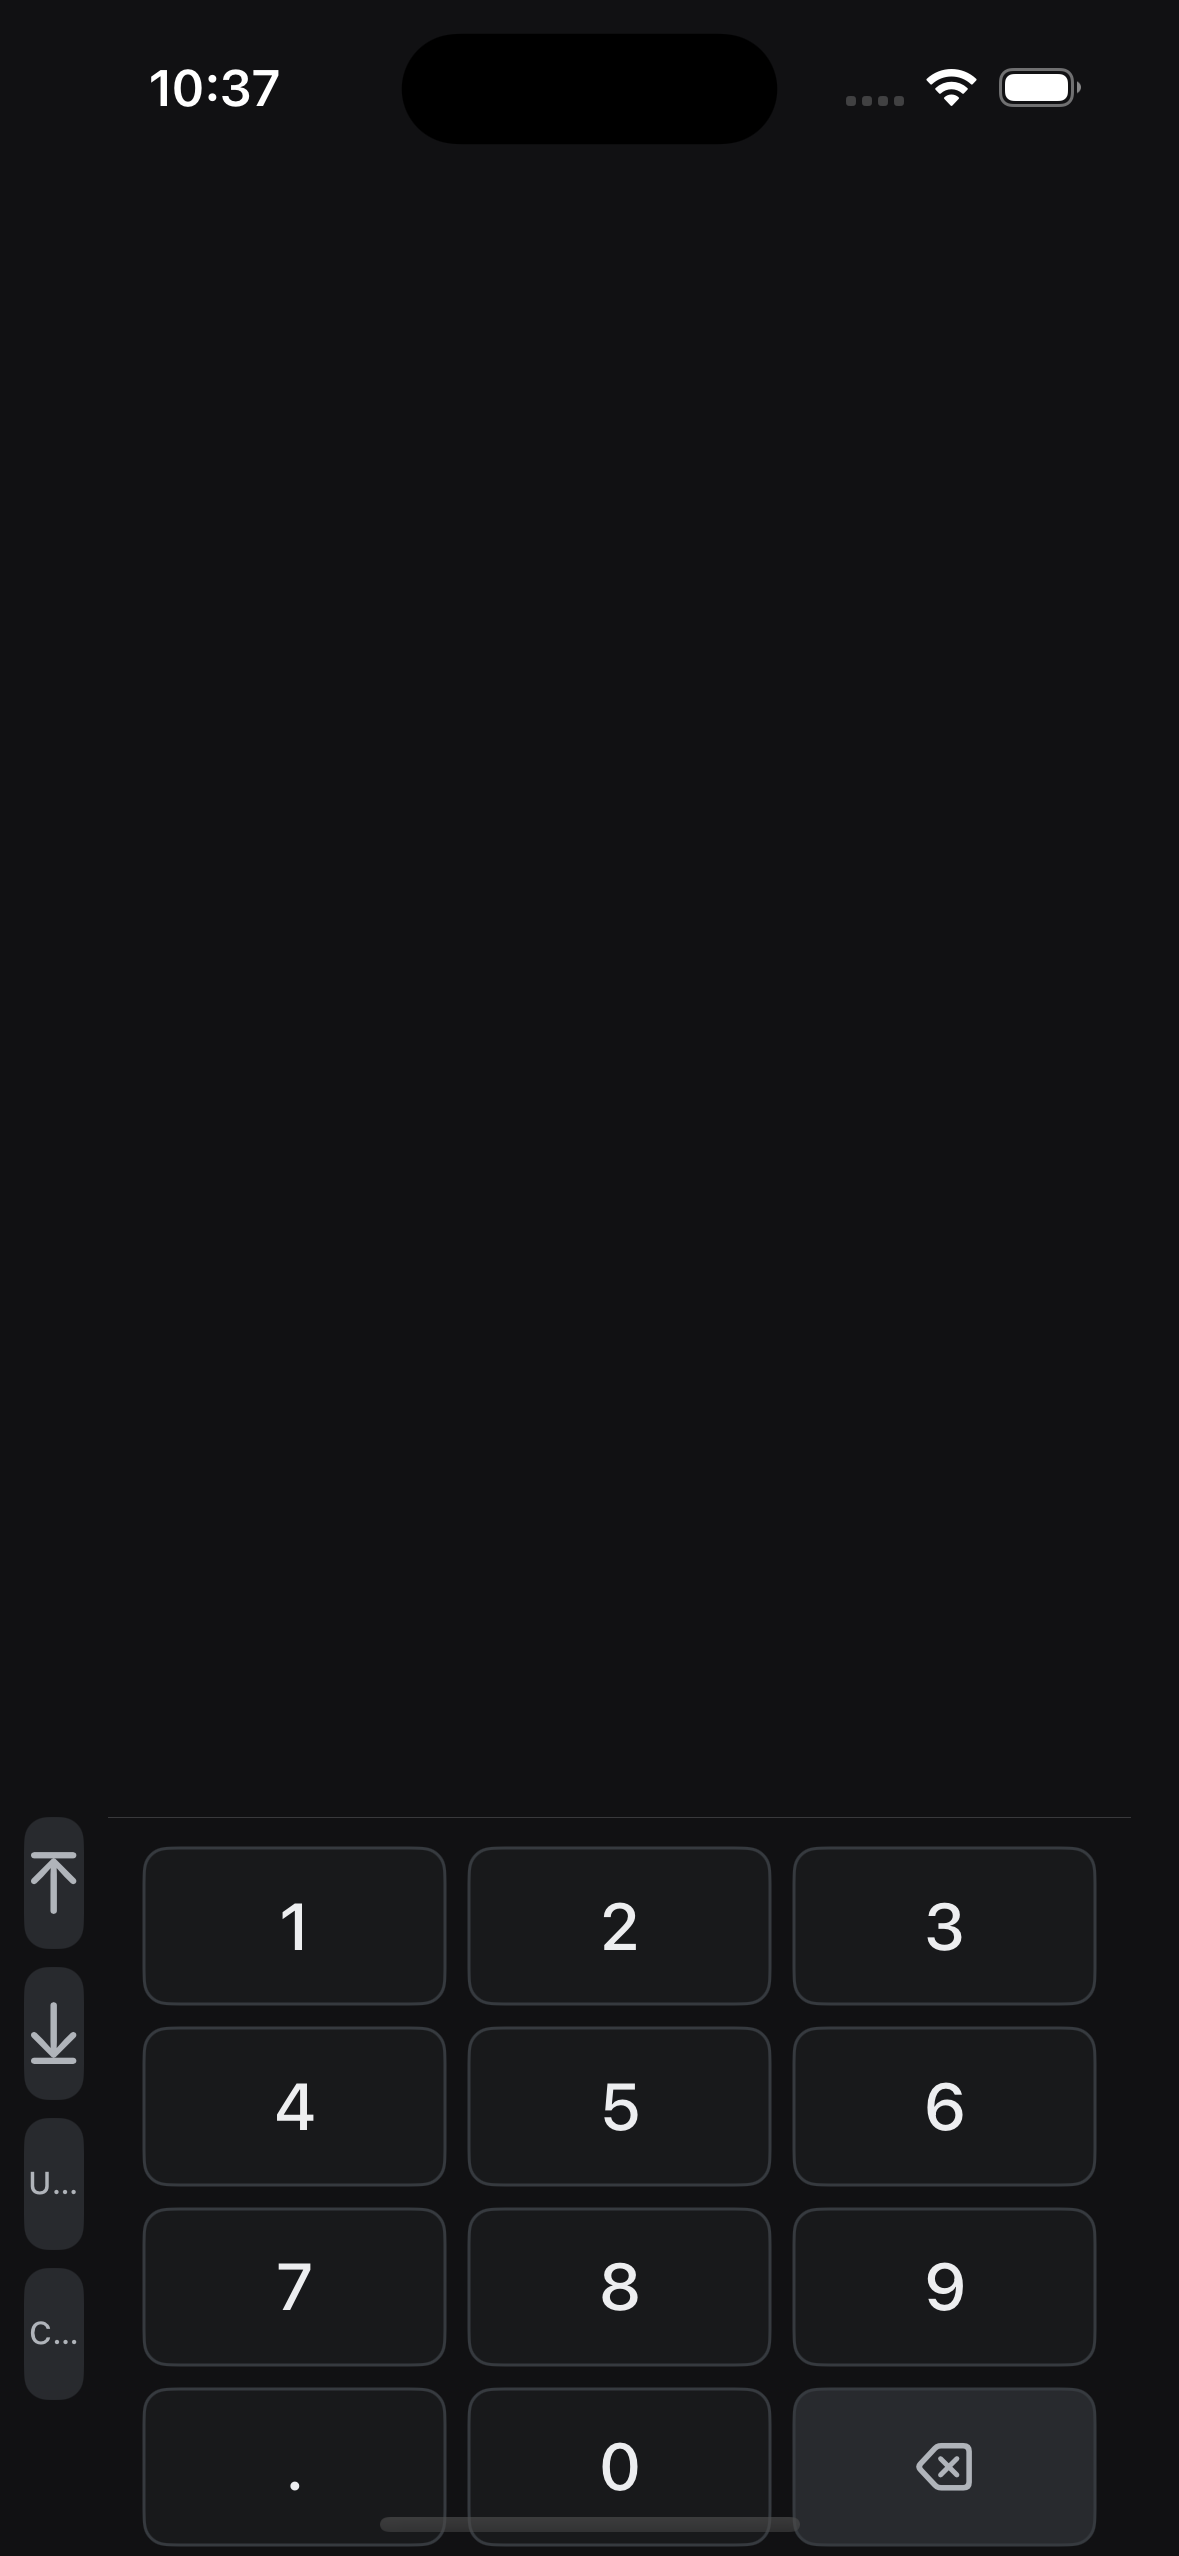
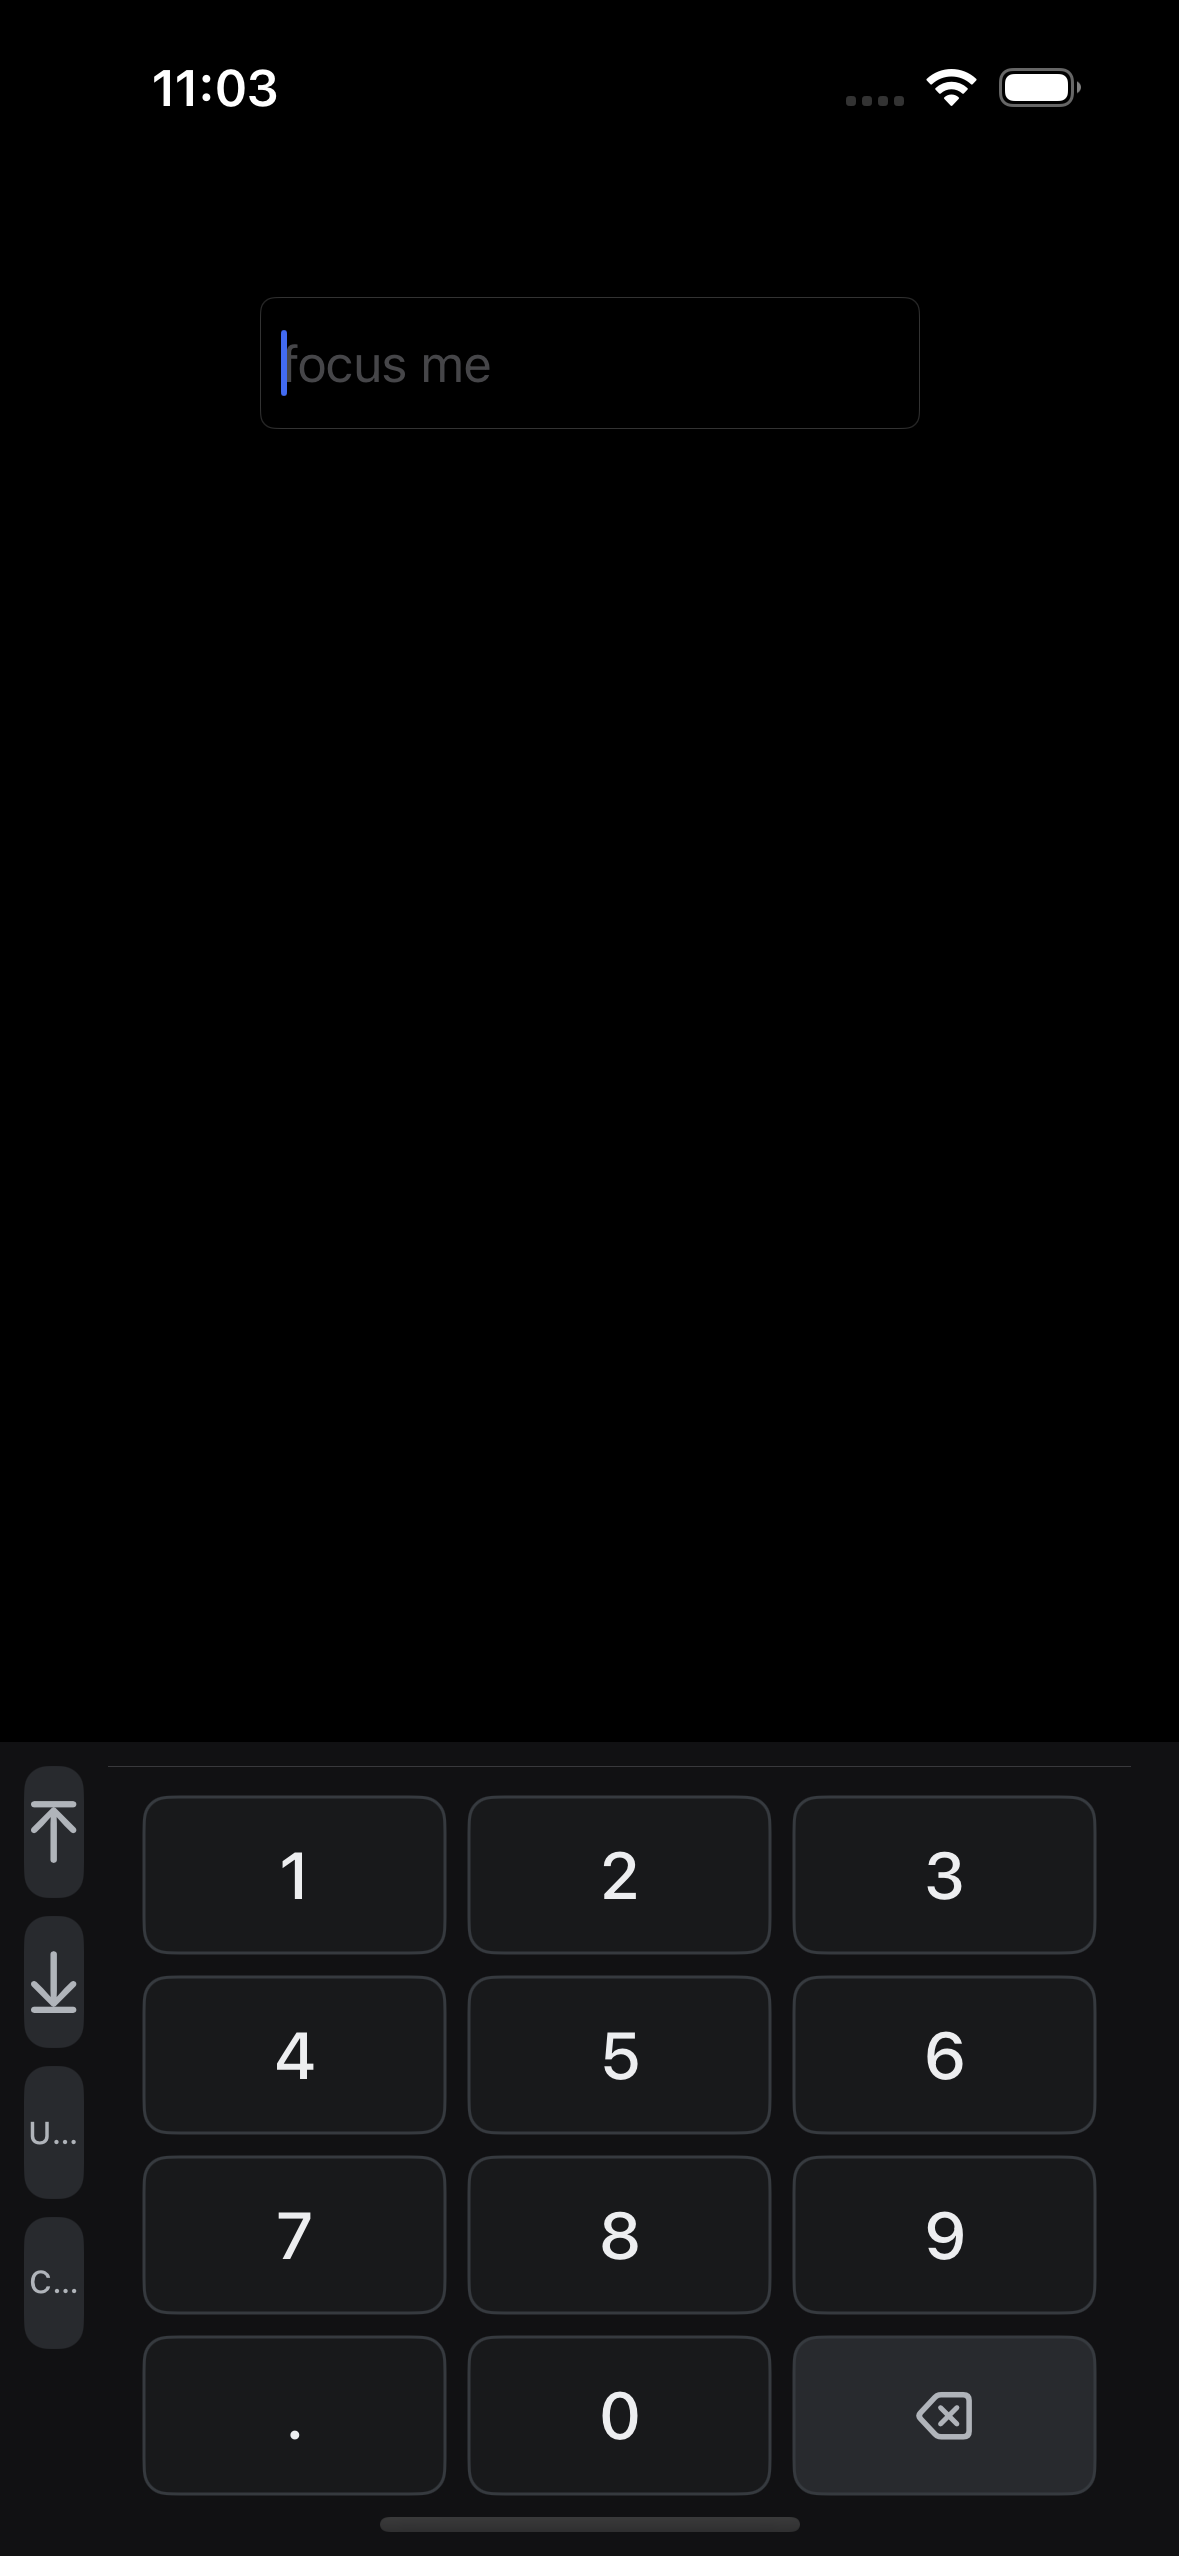
docs(design): 017 keyboard shots — real UITextField.inputView path + iPad dim fix (MY-1349)
Address AI Reviewer P0 + P2 on PR #360:

P0 fix — real inputView presentation path:
KBHost previously mounted WorkoutNumericKeyboardContentView directly inside
a substitute `VStack + Spacer + .frame(...)`. AI Reviewer flagged this is not
the production `textField.inputView` code path used in Stage 3 wiring
(SelectAllTextField / SetRow). Rewrote KBHostApp.swift to construct the
production `WorkoutNumericKeyboard` UIView and attach it as
`textField.inputView`, then call `becomeFirstResponder()` from
viewDidAppear — standard UIKit input-view presentation (~250ms slide-up
animation). The keyboard UIView's own heightAnchor (240 iPhone / 260 iPad)
drives its size and UIKit anchors it at the bottom safe-area edge with
full container width — the exact same code path Stage 3 will use.

Extra proof of authenticity: on iPad shots, the iOS system inputAssistant
bar (undo/redo/paste) appears above the keyboard — this bar is only rendered
for real inputView presentation, never for direct-mounted views.

Production files remain untouched (WorkoutNumericKeyboard.swift,
NumericKeypad.swift, ExerciseDefaults.swift) — xcodegen source-includes
them by absolute path so KBHost compiles the same source.

P2 fix — iPad dimensions:
Verified via `sips -g pixelWidth -g pixelHeight`: iPad Pro 11" M4 sim
returns 1668×2420, not 1668×2388 as previously recorded. Corrected all
four iPad rows in the 截图清单 table and updated captions.

Re-captured full 8-image matrix (iPhone 16 + iPad Pro 11", light + dark,
[…]

diff --git a/design/keyboard-current-shots/diagnosis.md b/design/keyboard-current-shots/diagnosis.md
@@ -7,9 +7,12 @@
 
 ---
 
-## 截图生成方法（可复现，真机 iOS Simulator）
+## 截图生成方法（可复现，真机 iOS Simulator + 生产 UITextField.inputView 路径）
 
-> **说明**：前一轮曾用 macOS `ImageRenderer` 光栅化"结构等价的复刻 view"作为替代，被 TL / AI Reviewer 判为 P0 blocker —— macOS 复刻会**掩盖真实设备布局回归**（见 N9）。本轮重写用真 iOS Simulator。
+> **前两轮 P0 修复历史**：
+> - **v1**: 用 macOS `ImageRenderer` 光栅化"结构等价的复刻 view" → P0 (非真机)
+> - **v2**: 用 iOS Simulator 但把 `WorkoutNumericKeyboardContentView` 直接挂到 `VStack + Spacer + .frame(...)` → P0 (真机但**不是生产 inputView 路径**)
+> - **v3（本次，此文档描述的方法）**: iOS Simulator + **真 `UITextField` 聚焦，其 `inputView` 是生产 `WorkoutNumericKeyboard` UIView 实例** → 与未来 Stage 3 `SelectAllTextField` / `SetRow` 的实际线路一致
 
 ### 1. 最小 iOS host（源码包含生产 view，零改动）
 
@@ -39,16 +42,35 @@ targets:
       base: { CODE_SIGNING_ALLOWED: NO, TARGETED_DEVICE_FAMILY: "1,2" }
 ```
 
-`App/KBHostApp.swift` 挂载 `WorkoutNumericKeyboardContentView`（**生产 view 本体，非复刻**）到 `VStack + Spacer + .frame(height: iPad ? 260 : 240)`（与 `WorkoutNumericKeyboard.preferredHeight()` 一致）；`App/WeightUnitShim.swift` 只声明 `enum WeightUnit { case kg, lb }` 用于 `ExerciseDefaults` 编译（`resolvePreset` 代码路径不触碰此类型）。启动参数 `--field weight|reps --set working|warmup --dark 0|1` 选定渲染上下文。
+`App/WeightUnitShim.swift` 只声明 `enum WeightUnit { case kg, lb }` 用于 `ExerciseDefaults` 编译（`resolvePreset` 代码路径不触碰此类型）。启动参数 `--field weight|reps --set working|warmup --dark 0|1` 选定渲染上下文。
 
-**约束满足**：`Files NOT to touch` 中的 `WorkoutNumericKeyboard.swift` / `NumericKeypad.swift` **零改动** —— host 用 `sources: [{ path: absolute }]` 引用它们的原文件。
+**关键：生产 inputView 路径**（`App/KBHostApp.swift`）：
+
+```swift
+// 1) 一个真 UIWindow + UIViewController，overrideUserInterfaceStyle 由 --dark 决定
+// 2) 一个真 UITextField 放在 safe-area 顶部（截图里能看到 "focus me" placeholder）
+// 3) 用生产的 WorkoutNumericKeyboard UIView init 构造实例：
+let keyboard = WorkoutNumericKeyboard(
+    field: HostConfig.field, setType: HostConfig.setType,
+    exercise: nil, recentWeightKg: nil,
+    onKeyPress: { _ in }, onLeftAction: { _ in },
+    onPresetReps: { _, _ in }, onDone: { }
+)
+// 4) 把它挂成 inputView（这就是 Stage 3 SelectAllTextField / SetRow 的做法）：
+textField.inputView = keyboard
+// 5) 让 textField 成为 firstResponder → UIKit 用标准 input-view slide-up 动画呈现
+textField.becomeFirstResponder()
+```
+
+这条链路和生产 Stage 3 wiring 完全一致 —— 键盘作为 `UITextField.inputView` 被 UIKit 呈现，宽度=容器宽度，高度=键盘自己的 `heightAnchor`（生产 `preferredHeight()`：iPhone 240 / iPad 260），slide-up 动画由 UIKit 提供。iPad 截图（S5–S8）在键盘上方能看到 iOS 系统 inputAssistant 条（undo / redo / paste 图标）—— 这条只有真 inputView 呈现时才会出现，本身就是"这是真的 UITextField.inputView 而非 substitute VStack"的额外证据。
+
+**约束满足**：`Files NOT to touch` 中的 `WorkoutNumericKeyboard.swift` / `NumericKeypad.swift` **零改动** —— host 用 `sources: [{ path: absolute }]` 引用原文件；`WorkoutNumericKeyboard` 内部是 `internal` 级别，但因为 xcodegen source-include 到 KBHost 目标本身，在 KBHost 模块作用域内可访问。
 
 ### 2. 捕获 8 张真设备截图
 
 ```bash
-IPHONE=99C94787-8EBC-4A57-94BE-89D4F6EF7414   # iPhone 16, 1179×2556 @3x
-IPAD=7693C4AB-5DEE-4785-BD7B-E17128734146     # iPad Pro 11" M4, 1668×2388 @2x
-BUNDLE=com.tianpli.kbhost
+IPHONE=99C94787-8EBC-4A57-94BE-89D4F6EF7414   # iPhone 16, 1179×2556 px
+IPAD=7693C4AB-5DEE-4785-BD7B-E17128734146     # iPad Pro 11" M4, 1668×2420 px
 
 capture () {
   local udid=$1 appearance=$2 field=$3 setType=$4 name=$5
@@ -56,29 +78,33 @@ capture () {
   xcrun simctl terminate "$udid" "$BUNDLE" 2>/dev/null || true
   xcrun simctl launch --terminate-running-process "$udid" "$BUNDLE" \
       --field "$field" --set "$setType" --dark "$([ $appearance = dark ] && echo 1 || echo 0)"
-  sleep 1.8
+  sleep 2.5   # 等 becomeFirstResponder + inputView slide-up + autolayout settle
   xcrun simctl io "$udid" screenshot --type=png "$OUT/$name.png"
 }
 
 # 8 张 = {iPhone 16, iPad Pro 11"} × {light, dark} × {working+weight, warmup+reps}
 ```
 
-**尺寸**：full-device 截图（未裁剪），iPhone = 1179×2556 px @3x，iPad = 1668×2388 px @2x。这样连**系统 status bar / home indicator / safe-area** 都在结果里 —— 恰好是"用户真正看到什么"的诊断素材，也让 N9（右列缺失）无法被裁剪掩盖。
+**尺寸**（`sips -g pixelWidth -g pixelHeight` 实测）：full-device 截图（未裁剪）
+- iPhone 16 = **1179 × 2556 px**
+- iPad Pro 11" M4 = **1668 × 2420 px**（注：不是 1668×2388；先前记录有误，本轮已按实测修正）
+
+这样连**系统 status bar / home indicator / iPad inputAssistant 条** 都在结果里 —— 恰好是"用户真正看到什么"的诊断素材，也让 N9（右列缺失）无法被裁剪掩盖。
 
 ---
 
 ## 截图清单
 
-| # | 文件 | 设备 | Field | SetType | Appearance | 原尺寸 |
+| # | 文件 | 设备 | Field | SetType | Appearance | 原尺寸 (px) |
 |---|------|------|-------|---------|-----------|-----|
 | S1 | `iphone16-working-weight-light.png` | iPhone 16       | weight | working | Light | 1179×2556 |
 | S2 | `iphone16-working-weight-dark.png`  | iPhone 16       | weight | working | Dark  | 1179×2556 |
 | S3 | `iphone16-warmup-reps-light.png`    | iPhone 16       | reps   | warmup  | Light | 1179×2556 |
 | S4 | `iphone16-warmup-reps-dark.png`     | iPhone 16       | reps   | warmup  | Dark  | 1179×2556 |
-| S5 | `ipadpro11-working-weight-light.png`| iPad Pro 11" M4 | weight | working | Light | 1668×2388 |
-| S6 | `ipadpro11-working-weight-dark.png` | iPad Pro 11" M4 | weight | working | Dark  | 1668×2388 |
-| S7 | `ipadpro11-warmup-reps-light.png`   | iPad Pro 11" M4 | reps   | warmup  | Light | 1668×2388 |
-| S8 | `ipadpro11-warmup-reps-dark.png`    | iPad Pro 11" M4 | reps   | warmup  | Dark  | 1668×2388 |
+| S5 | `ipadpro11-working-weight-light.png`| iPad Pro 11" M4 | weight | working | Light | 1668×2420 |
+| S6 | `ipadpro11-working-weight-dark.png` | iPad Pro 11" M4 | weight | working | Dark  | 1668×2420 |
+| S7 | `ipadpro11-warmup-reps-light.png`   | iPad Pro 11" M4 | reps   | warmup  | Light | 1668×2420 |
+| S8 | `ipadpro11-warmup-reps-dark.png`    | iPad Pro 11" M4 | reps   | warmup  | Dark  | 1668×2420 |
 
 ---
 
